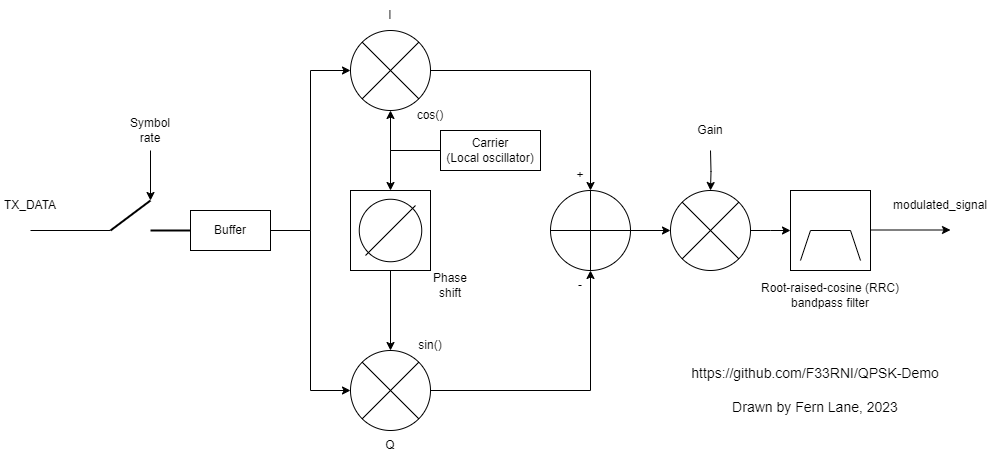
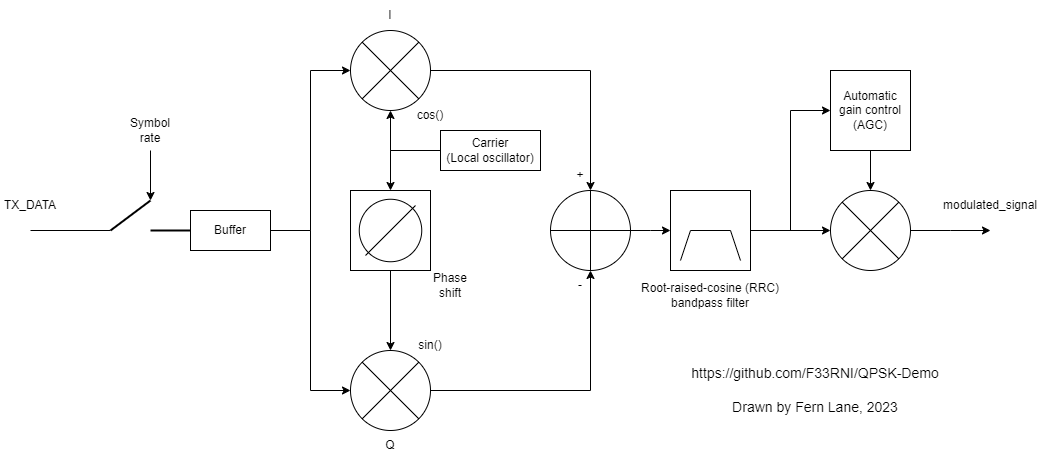
Add AGC to modulator

diff --git a/main.py b/main.py
@@ -153,9 +153,12 @@ PLL_K_VCO = (RECEIVER_CARRIER_FREQUENCY / 2)
 # ############################# #
 # AUTOMATIC GAIN CONTROL CONFIG #
 # ############################# #
-# AGC accumulator K when signal <= accumulator
-AGC_CONSTANT_FALLING = 0.98
+# AGC accumulator release gain when signal <= accumulator
+AGC_RELEASE_K = 0.98
 
+# ########################## #
+# RECEIVER THRESHOLDS CONFIG #
+# ########################## #
 # Signal must be above this threshold to start PLL locking and demodulating (in dBFS RMS)
 CARRIER_START_AMPLITUDE = -20
 
@@ -379,7 +382,6 @@ def main():
         sample_i = np.cos(2 * np.pi * TRANSMITTER_CARRIER_FREQUENCY * time_new) * value_i * amplitude_correction_factor
         sample_q = -np.sin(2 * np.pi * TRANSMITTER_CARRIER_FREQUENCY * time_new) * value_q * amplitude_correction_factor
         sample = sample_i + sample_q
-        sample *= CARRIER_AMPLITUDE
 
         # Append time and generated sample to arrays
         modulated_signal = np.append(modulated_signal, sample)
@@ -408,10 +410,26 @@ def main():
     # Compensate for RRC filter delay
     modulated_signal = np.append(modulated_signal, np.zeros(modulation_filter.filter_length // 2, dtype=np.float32))
 
-    # Apply band-pass filter to isolate carrier
+    # Automatic gain control variable
+    peak_detector = 0.
+
+    # Apply band-pass filter to isolate carrier and AGC to stabilize output signal
     for i in range(len(modulated_signal)):
         # Filter each sample
         modulated_signal[i] = modulation_filter.filter(modulated_signal[i])
+
+        # Pass current sample to peak detector (automatic gain control)
+        peak_detector_input = abs(modulated_signal[i])
+
+        # Calculate peak detector
+        if peak_detector_input > peak_detector:
+            peak_detector = peak_detector_input
+        else:
+            peak_detector = peak_detector * AGC_RELEASE_K + peak_detector_input * (1. - AGC_RELEASE_K)
+
+        # Apply AGC and ignore silence
+        if peak_detector > 0.2:
+            modulated_signal[i] *= CARRIER_AMPLITUDE / peak_detector
 
     # Compensate for RRC filter delay
     modulated_signal = modulated_signal[modulation_filter.filter_length // 2:]
@@ -558,7 +576,7 @@ def main():
         if peak_detector_input > peak_detector:
             peak_detector = peak_detector_input
         else:
-            peak_detector = peak_detector * AGC_CONSTANT_FALLING + peak_detector_input * (1. - AGC_CONSTANT_FALLING)
+            peak_detector = peak_detector * AGC_RELEASE_K + peak_detector_input * (1. - AGC_RELEASE_K)
 
         # Check if we have any signal
         if peak_detector > 0.:

diff --git a/README.md b/README.md
@@ -32,56 +32,56 @@ TX_DATA = [-1] + [0] * 60 + [0, 1, 2, 3] + string_to_qpsk_array("Hello!") + [-1]
 Program output:
 ```
 Generated 1729 samples. Total time: ~0.236s
-Added ~0.002s (14 samples) of delay
-Carrier detected @ ~0.022s. RMS volume: -14.4dBFS
-PLL locked @ ~0.098s. VCO: ~999.27Hz (error between 950.0Hz: 51863ppm). I: 1, Q: -1
-Detected phase change @ ~0.145s. Sampling position: 2 samples after zero-cross
-IQ values of phase 1 recorded @ ~0.146s. I: 1, Q: 1
-IQ values of phase 2 recorded @ ~0.148s. I: -1, Q: -1
-IQ values of phase 3 recorded @ ~0.150s. I: -1, Q: 1
-Decoded data @ ~0.152s: 1 (0b01)
-Decoded data @ ~0.154s: 0 (0b00)
-Decoded data @ ~0.156s: 2 (0b10)
-Decoded data @ ~0.158s: 0 (0b00)
+Added ~0.005s (40 samples) of delay
+Carrier detected @ ~0.025s. RMS volume: -18.4dBFS
+PLL locked @ ~0.112s. VCO: ~998.80Hz (error between 950.0Hz: 51366ppm). I: 1, Q: 1
+Detected phase change @ ~0.148s. Sampling position: 4 samples after zero-cross
+IQ values of phase 1 recorded @ ~0.149s. I: -1, Q: 1
+IQ values of phase 2 recorded @ ~0.151s. I: 1, Q: -1
+IQ values of phase 3 recorded @ ~0.153s. I: -1, Q: -1
+Decoded data @ ~0.155s: 1 (0b01)
+Decoded data @ ~0.157s: 0 (0b00)
+Decoded data @ ~0.159s: 2 (0b10)
+Decoded data @ ~0.161s: 0 (0b00)
 Decoded byte: 0b01001000, char: H
-Decoded data @ ~0.160s: 1 (0b01)
-Decoded data @ ~0.162s: 2 (0b10)
-Decoded data @ ~0.164s: 1 (0b01)
-Decoded data @ ~0.166s: 1 (0b01)
+Decoded data @ ~0.163s: 1 (0b01)
+Decoded data @ ~0.165s: 2 (0b10)
+Decoded data @ ~0.167s: 1 (0b01)
+Decoded data @ ~0.169s: 1 (0b01)
 Decoded byte: 0b01100101, char: e
-Decoded data @ ~0.168s: 1 (0b01)
-Decoded data @ ~0.170s: 2 (0b10)
-Decoded data @ ~0.172s: 3 (0b11)
-Decoded data @ ~0.174s: 0 (0b00)
+Decoded data @ ~0.171s: 1 (0b01)
+Decoded data @ ~0.173s: 2 (0b10)
+Decoded data @ ~0.175s: 3 (0b11)
+Decoded data @ ~0.177s: 0 (0b00)
 Decoded byte: 0b01101100, char: l
-Decoded data @ ~0.176s: 1 (0b01)
-Decoded data @ ~0.178s: 2 (0b10)
-Decoded data @ ~0.180s: 3 (0b11)
-Decoded data @ ~0.182s: 0 (0b00)
+Decoded data @ ~0.179s: 1 (0b01)
+Decoded data @ ~0.181s: 2 (0b10)
+Decoded data @ ~0.183s: 3 (0b11)
+Decoded data @ ~0.185s: 0 (0b00)
 Decoded byte: 0b01101100, char: l
-Decoded data @ ~0.184s: 1 (0b01)
-Decoded data @ ~0.186s: 2 (0b10)
-Decoded data @ ~0.188s: 3 (0b11)
-Decoded data @ ~0.190s: 3 (0b11)
+Decoded data @ ~0.187s: 1 (0b01)
+Decoded data @ ~0.189s: 2 (0b10)
+Decoded data @ ~0.191s: 3 (0b11)
+Decoded data @ ~0.193s: 3 (0b11)
 Decoded byte: 0b01101111, char: o
-Decoded data @ ~0.192s: 0 (0b00)
-Decoded data @ ~0.194s: 2 (0b10)
-Decoded data @ ~0.196s: 0 (0b00)
-Decoded data @ ~0.198s: 1 (0b01)
+Decoded data @ ~0.195s: 0 (0b00)
+Decoded data @ ~0.197s: 2 (0b10)
+Decoded data @ ~0.199s: 0 (0b00)
+Decoded data @ ~0.201s: 1 (0b01)
 Decoded byte: 0b00100001, char: !
-Decoded data @ ~0.200s: 2 (0b10)
-Decoded data @ ~0.202s: 1 (0b01)
-Decoded data @ ~0.204s: 2 (0b10)
-Decoded data @ ~0.206s: 1 (0b01)
+Decoded data @ ~0.203s: 2 (0b10)
+Decoded data @ ~0.205s: 1 (0b01)
+Decoded data @ ~0.207s: 2 (0b10)
+Decoded data @ ~0.209s: 1 (0b01)
 Decoded byte: 0b10011001, char: 
-Decoded data @ ~0.208s: 1 (0b01)
-Decoded data @ ~0.210s: 0 (0b00)
-Decoded data @ ~0.212s: 3 (0b11)
-Decoded data @ ~0.214s: 3 (0b11)
-Decoded byte: 0b01001111, char: O
-Decoded data @ ~0.216s: 0 (0b00)
-Carrier lost and PLL unlocked @ ~0.216s. RMS volume: -30.0dBFS
-Processing finished. Took 0.278s
+Decoded data @ ~0.211s: 1 (0b01)
+Decoded data @ ~0.213s: 2 (0b10)
+Decoded data @ ~0.215s: 0 (0b00)
+Decoded data @ ~0.217s: 0 (0b00)
+Decoded byte: 0b01100000, char: `
+Decoded data @ ~0.219s: 3 (0b11)
+Carrier lost and PLL unlocked @ ~0.220s. RMS volume: -30.1dBFS
+Processing finished. Took 0.282s
 ```
 
 As you can see the message is received and decoded successfully:
